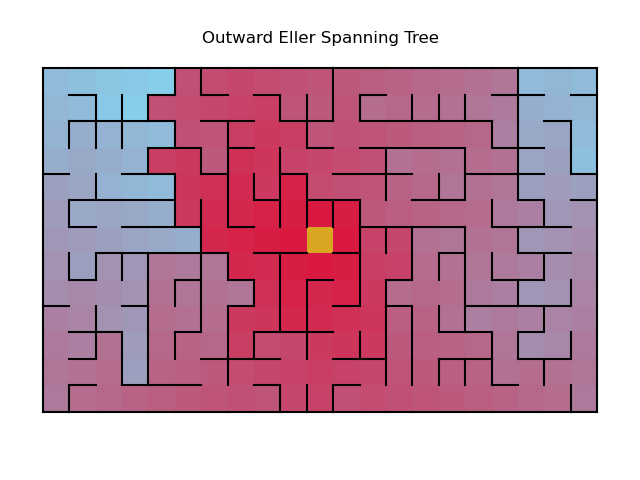
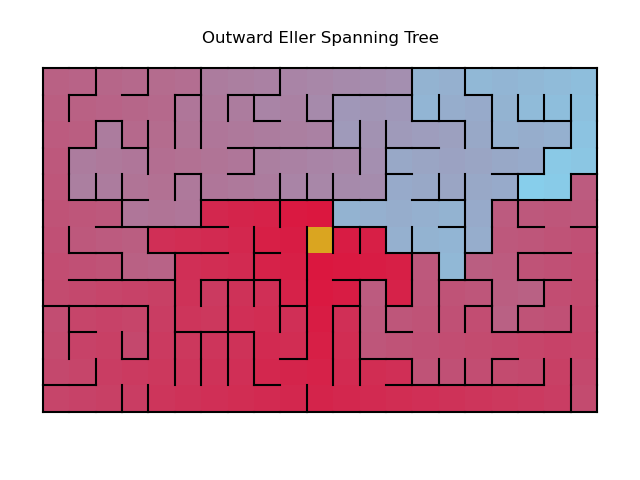
v0.8.1 add hunt and kill colormap

diff --git a/demos/dcm_huntkill.py b/demos/dcm_huntkill.py
@@ -1,0 +1,49 @@
+"""
+demos.dcm_huntkill - color gradient for a Hunt and Kill tree
+Eric Conrad
+Copyright ©2024 by Eric Conrad.  Licensed under GPL.v3.
+
+DESCRIPTION
+
+    This demo produces a distance-colored maze.
+
+LICENSE
+
+    This program is free software: you can redistribute it and/or modify
+    it under the terms of the GNU General Public License as published by
+    the Free Software Foundation, either version 3 of the License, or
+    (at your option) any later version.
+
+    This program is distributed in the hope that it will be useful,
+    but WITHOUT ANY WARRANTY; without even the implied warranty of
+    MERCHANTABILITY or FITNESS FOR A PARTICULAR PURPOSE.  See the
+    GNU General Public License for more details.
+
+    You should have received a copy of the GNU General Public License
+    along with this program.  If not, see <https://www.gnu.org/licenses/>.
+"""
+import os
+
+from matplotlib.colors import to_rgb
+from demos.colormap import main as sketch_example
+from mazes.Algorithms.hunt_kill import HuntKill
+
+ROWS = 13
+COLS = 21
+CENTER = 'c'
+CARVER = (HuntKill, (), {})
+
+HOT = to_rgb("crimson")
+COLD = to_rgb("skyblue")
+ZERO = to_rgb("goldenrod")
+
+basename = os.path.basename(__file__).split('.')[0]
+pathname = "gallery/" + basename + ".png"
+
+spider = sketch_example(ROWS, COLS, HOT, COLD, ZERO, CENTER, CARVER)
+spider.title("Hunt and Kill Spanning Tree")
+spider.fig.tight_layout()
+spider.save_image(filename=pathname)
+print(f"saved image to: {pathname}")
+
+# end module demos.dcm_hunt kill
